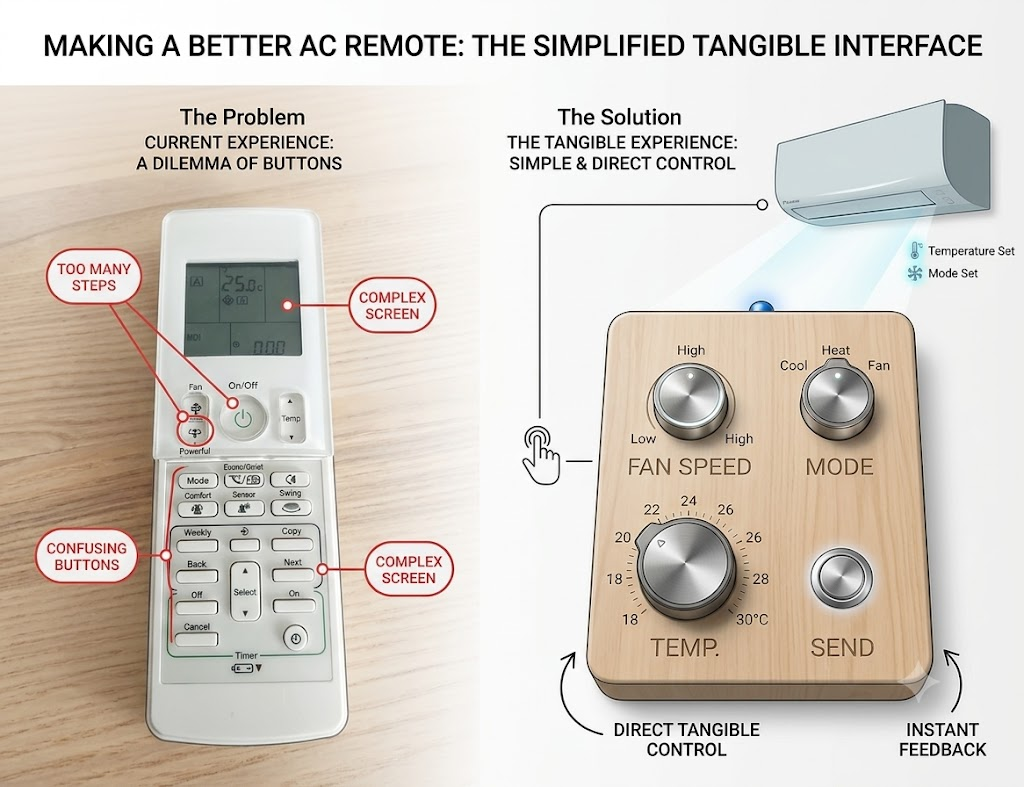
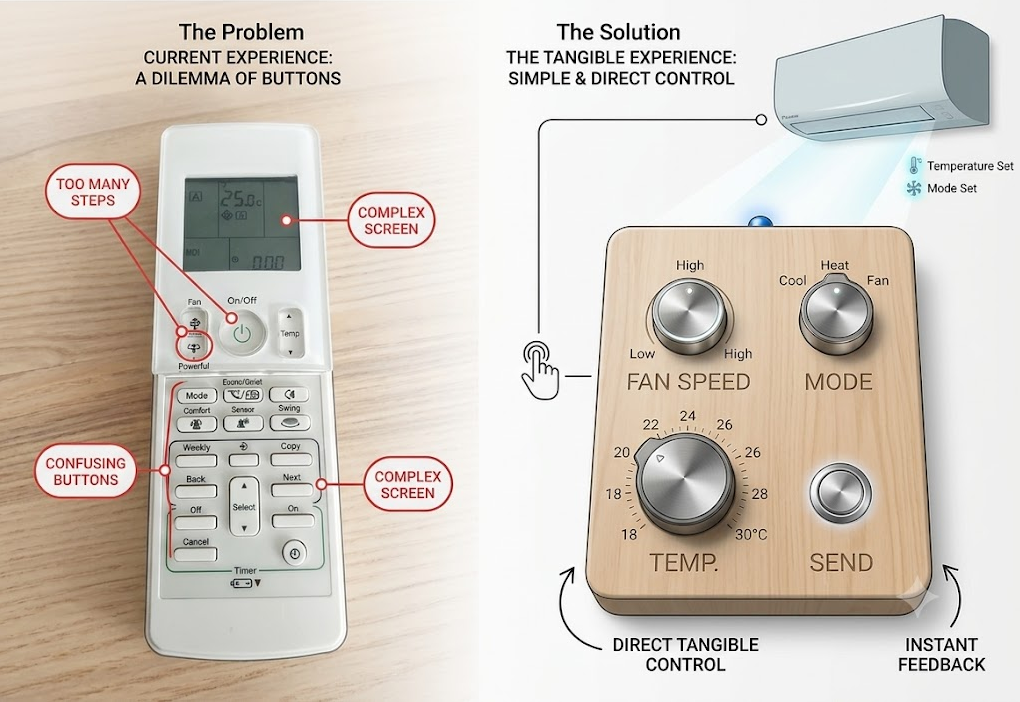
typeos

diff --git a/README.md b/README.md
@@ -14,9 +14,50 @@ Three rotary knobs set **fan speed/power**, **mode**, and **temperature**. A **S
 
 Target AC unit: Daikin FTXM20N2V1B · Original remote: ARC466A33 · Protocol: `DAIKIN` (frame ported to AVR `IRremote`; `IRDaikinAC` from IRremoteESP8266 used as the reference format)
 
+## Hardware summary
+
+- 3 rotary switchs (all 1-pole) **ALPHA SR16** + Send button (+ optional Swing toggle)
+
+- Arduino Pro Mini 3.3 V (ATmega328P)
+  — on hand, sufficient for this design, ported and tested. Sleeps in `SLEEP_MODE_PWR_DOWN`, woken by PCINT both-edge on every code/button line. Sleep floor dominated by the Pro Mini LDO quiescent (~75 µA) — bench-validation pending. (nRF52840 / STM32L4 were evaluated for lower µA-class sleep; see [03_microcontroller_choice.md](docs/03_microcontroller_choice.md))
+- **IR:** TSAL6200 940 nm LED (×1 or ×3 fan) + S9013 NPN transistor driver · 38 kHz carrier via the 328P Timer2 (OC2B, pin D3) · Daikin ARC466A33 frame ported from the documented format and validated against the real unit
+
+- **Power:** Li-Po 3.7 V · TP4056 USB-C charging module · MCU in `SLEEP_MODE_PWR_DOWN` between transmissions, woken by PCINT edge (6-month → multi-year battery target — bench-validation pending)
+
+## Status & roadmap
+
+see howtos...
+
+2. **✅ Prototype integration on a wood panel** — first prototype almost done: real
+   encoders wired to the devboard, running end-to-end. Still missing: panel labels, the
+   rs1010 side-switch panel layout, attaching the battery, and temperature-range tuning.
+
+   <img src="images/photos/PXL_20260720_092943110_web.jpg" alt="Prototype integration on a wood panel" width="50%">
+
+   <img src="images/photos/PXL_20260720_093003884_web.jpg" alt="Prototype integration on a wood panel" width="50%">
+
+   Lessons learned:
+   - **The rotary switch mounting and wiring approach needs rework — current method doesn't
+     scale well to three knobs in an enclosure.**
+   - A nice box without a PCB is hard — perfboard wiring mess and component size (the
+     readout diodes especially) eat panel space fast.
+   - A Li-Po battery is likely overkill; actual sleep/active current draw still needs
+     measuring before picking a battery chemistry.
+   - 3× IR LEDs work electrically but are not enclosure/design-friendly; worth revisiting
+     against a single wider-angle LED.
+   - Open question: is a dedicated swing switch worth the panel space, or should swing
+     live on an existing control?
+
+### **Next:** ... PCB design ...
+
+- Rotary switches choices: pcb mount front
+- IR led choice
+- batterty choice: AA with regulator ?
+- Learn KiCad...
+
 ## Files
 
-| File                                                                    | Description                                                                                                       |
+| File                                                                    | Description                                                                                                      |
 | ----------------------------------------------------------------------- | ---------------------------------------------------------------------------------------------------------------- |
 | [00_specifications.md](docs/00_specifications.md)                       | Full project requirements: controls, feedback, power, enclosure                                                  |
 | [01_technical_design_overview.md](docs/01_technical_design_overview.md) | Design summary: choices, trade-offs, and the open decisions (readout/wake, sleep current)                        |
@@ -48,58 +89,3 @@ were actually proven.
 | [07_verify_frame_against_capture.md](howtos/07_verify_frame_against_capture.md) | Diffing `daikin_build_frame()` vs the capture — found 5 wrong fixed bytes breaking the checksums        |
 | [08_daikin_fan_toggle.md](howtos/08_daikin_fan_toggle.md)                       | **Working end-to-end:** full frame over IR, AC beeps & changes fan speed; gap-timing + long-delay fixes |
 | [09_rotary_switches_wake_test.md](howtos/09_rotary_switches_wake_test.md)       | All three diode-encoded switches together: multi-switch sleep/wake bench test on the assembled inputs   |
-
-## Hardware summary
-
-- **MCU:** ATmega328P (Pro Mini 3.3 V) — on hand, sufficient for this design, ported and tested. Sleeps in `SLEEP_MODE_PWR_DOWN`, woken by PCINT both-edge on every code/button line. Sleep floor dominated by the Pro Mini LDO quiescent (~75 µA) — bench-validation pending. (nRF52840 / STM32L4 were evaluated for lower µA-class sleep; see [03_microcontroller_choice.md](docs/03_microcontroller_choice.md))
-- **IR:** TSAL6200 940 nm LED (×1 or ×3 fan) + S9013 NPN transistor driver · 38 kHz carrier via the 328P Timer2 (OC2B, pin D3) · Daikin ARC466A33 frame ported from the documented format and validated against the real unit
-- **Inputs:** 3 rotary selectors (all 1-pole) + Send button (+ optional Swing toggle)
-- **Rotary readout:** each switch diode-encoded into a small binary code on its own GPIO; the code lines double as both-edge wake interrupts (no ADC, no 2-pole, no analog rail) — see [05_electronics_circuit.md](docs/05_electronics_circuit.md)
-- **Feedback:** single TX indicator LED (knob positions are the state)
-- **Power:** Li-Po 3.7 V · TP4056 USB-C charging module · MCU in `SLEEP_MODE_PWR_DOWN` between transmissions, woken by PCINT edge (6-month → multi-year battery target — bench-validation pending)
-- **BOM cost:** < €35
-- **Enclosure:** 3D-printed ~80 × 100 × 25 mm, handheld or wall-mounted
-
-## Status & roadmap
-
-**Milestone reached — all three subsystems individually proven** (see the [bench logs](#bench-logs-build-journal)):
-
-- ✅ Selector wiring + diode-encoded readout, deep sleep + PCINT wake (RS1010)
-- ✅ Real IR comms with the Daikin unit — full frame, AC beeps & changes state
-- ✅ Firmware ported to the ATmega328P (8 MHz, Timer2 carrier, validated frame)
-
-Integration is underway. Planned in three phases, each de-risking the next:
-
-1. **Python serial app** ([11_serial_remote_app.md](docs/11_serial_remote_app.md)) — a Textual
-   TUI soft front-panel driving the AC over serial → 328P → IR. Goal: exercise the **full
-   control mapping** (every Fan/Mode/Temp/Swing combination) from the keyboard and shake
-   out mapping bugs while it's still just text — before committing any of it to physical knobs.
-
-   ![TUI app screenshot](images/screenshot_app_tui.png)
-
-   ![Hardware prototype](images/photos/PXL_20260624_193416426_web.jpg)
-2. **✅ Prototype integration on a wood panel** — first prototype almost done: real
-   encoders wired to the devboard, running end-to-end. Still missing: panel labels, the
-   rs1010 side-switch panel layout, attaching the battery, and temperature-range tuning.
-
-   Lessons learned:
-   - A nice box without a PCB is hard — perfboard wiring mess and component size (the
-     readout diodes especially) eat panel space fast.
-   - A Li-Po battery is likely overkill; actual sleep/active current draw still needs
-     measuring before picking a battery chemistry.
-   - The rotary switch mounting and wiring approach needs rework — current method doesn't
-     scale well to three knobs in an enclosure.
-   - 3× IR LEDs work electrically but are not enclosure/design-friendly; worth revisiting
-     against a single wider-angle LED.
-   - Open question: is a dedicated swing switch worth the panel space, or should swing
-     live on an existing control?
-
-   **Next up: source rotary switches** — settle the mounting/wiring rework above before
-   committing to the panel layout.
-3. **Proper case + better wiring** — design the 3D-printed enclosure and revisit the wiring
-   (perfboard → PCB?) once the panel prototype has fixed the real dimensions, the LED mount,
-   and the layout that survived contact with reality.
-
-The three design questions still open — IR LED mounting, encoder/knob choice, and case
-style — are resolved _within_ these phases rather than up front (phase 2 settles LED mount
-and knob feel; phase 3 settles the case).